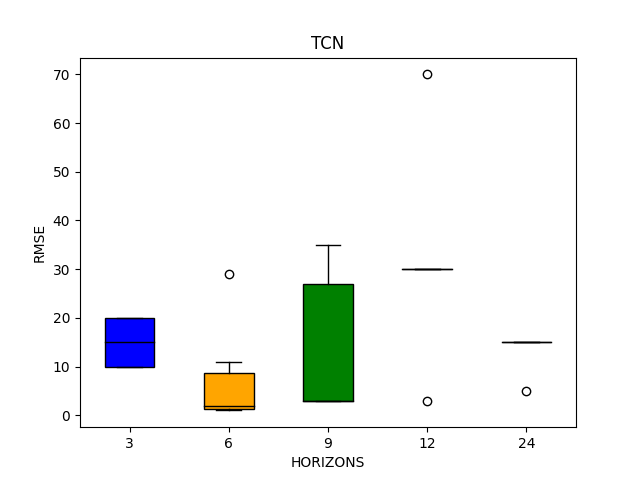
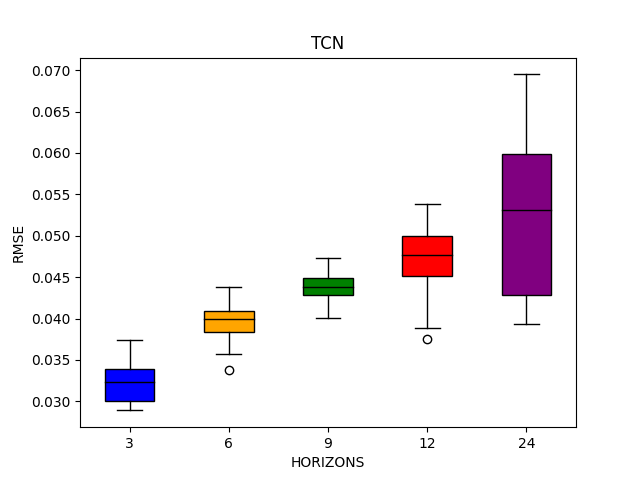
Updated plotter and upload new plots

diff --git a/Plots/plotter.py b/Plots/plotter.py
@@ -1,32 +1,37 @@
 import matplotlib.pyplot as plt
 import yaml
 
-def create(model):
-# def main():
+# def create(model):
+def main():
     print("Creating box and whiskers plot")
     metrics = {'MSE': {3:[],6:[],9:[],12:[],24:[]},'MAE': {3:[],6:[],9:[],12:[],24:[]},'RMSE': {3:[],6:[],9:[],12:[],24:[]},'SMAPE': {3:[],6:[],9:[],12:[],24:[]}}
 
-    with open('config.yaml', 'r') as file:
+    with open('../configurations/sharedConfig.yaml', 'r') as file:
         config = yaml.safe_load(file)
 
     horizons = config['horizons']['default']
     stations = config['stations']['default']
     
     start = 12
-    # model = "TCN"
+    model = "TCN"
     # Iterate over each station
     for station in stations:
         # Iterate over each forecasting horizon
         for horizon in horizons:
             try:
-                metric_file = f'Results/{model}/{horizon} Hour Forecast/{station}/Metrics/metrics.txt'
+                metric_file = f'../Results/{model}/Metrics/{station}/metrics_{horizon}.txt'
+                # metric_file = f'../Results/Metrics/{station}/metrics_{horizon}'
+
+                # metric_file = f'../Results/{model}/{horizon} Hour Forecast/{station}/Metrics/metrics.txt'
                 with open(metric_file, 'r') as file:
                     # Read the file line by line
                     lines = file.readlines()   
 
                 for line in lines:
                 # print(line)
-                    collin_index = line.index(":")
+                    # collin_index = line.index(":")
+                    collin_index = line[start:].index(" ") + 12
+                    # print(collin_index)
                     metric = line[start:collin_index]
                     # print(metric)
                     if metric in metrics:
@@ -36,6 +41,7 @@ def create(model):
                         metrics[metric][horizon].append(value)
 
             except Exception as e:
+                print(e)
                 print('Error! : Unable to read data or write metrics for station {} and forecast length {}. Please review the data or code for the metrics for errors.'.format(station, horizon))
     # print(metrics)
     
@@ -76,6 +82,7 @@ def create(model):
 
         # Save the box plot to a file
         plt.savefig(f'Plots/{model}/{key}_BWplot.png')
+        # plt.savefig(f'{key}_BWplot.png')
 
-# if __name__ == '__main__':
-#     main()
+if __name__ == '__main__':
+    main()
